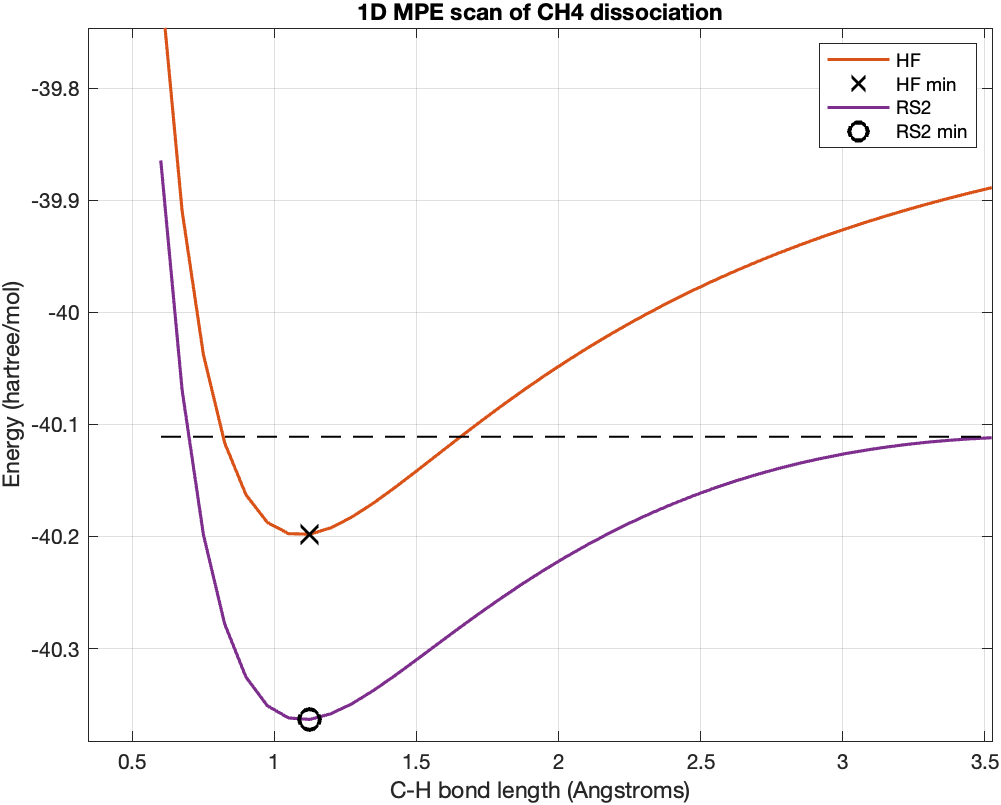
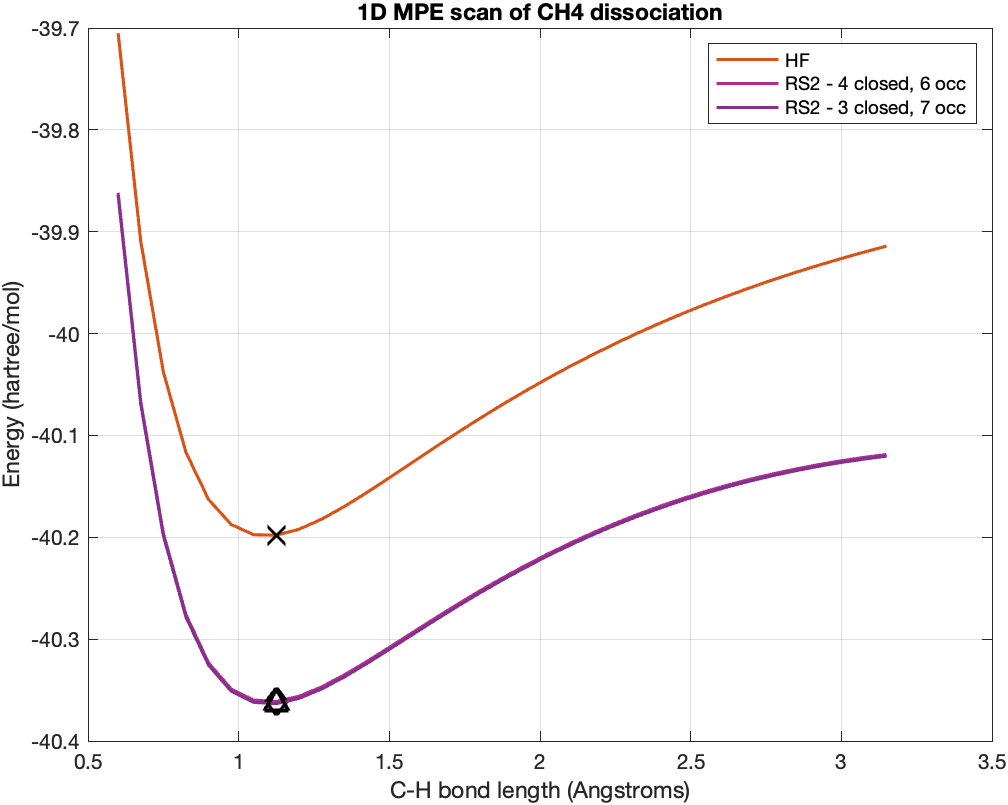
changes project 6

diff --git a/Project6/scan_CH4/plot_energies.m b/Project6/scan_CH4/plot_energies.m
@@ -3,12 +3,12 @@ clc;
 clear all;
 close all;
 
-% Read the data from the csv file and store the colums values in 3 arrays. 
+% Read the data from the csv file and store the colums values in 4 arrays. 
 data = csvread('energy_comparison.csv',1,0);
-RCH4 = data(:,1);
-EHF = data(:,2);
-ERS2_1 = data(:,3);
-ERS2_2 = data(:,4);
+RCH4 = data(1:35,1);
+EHF = data(1:35,2);
+ERS2_1 = data(1:35,3);
+ERS2_2 = data(1:35,4);
 
 %Mark the minimum energy points
 [minEHF, indexEHF] = min(EHF);
